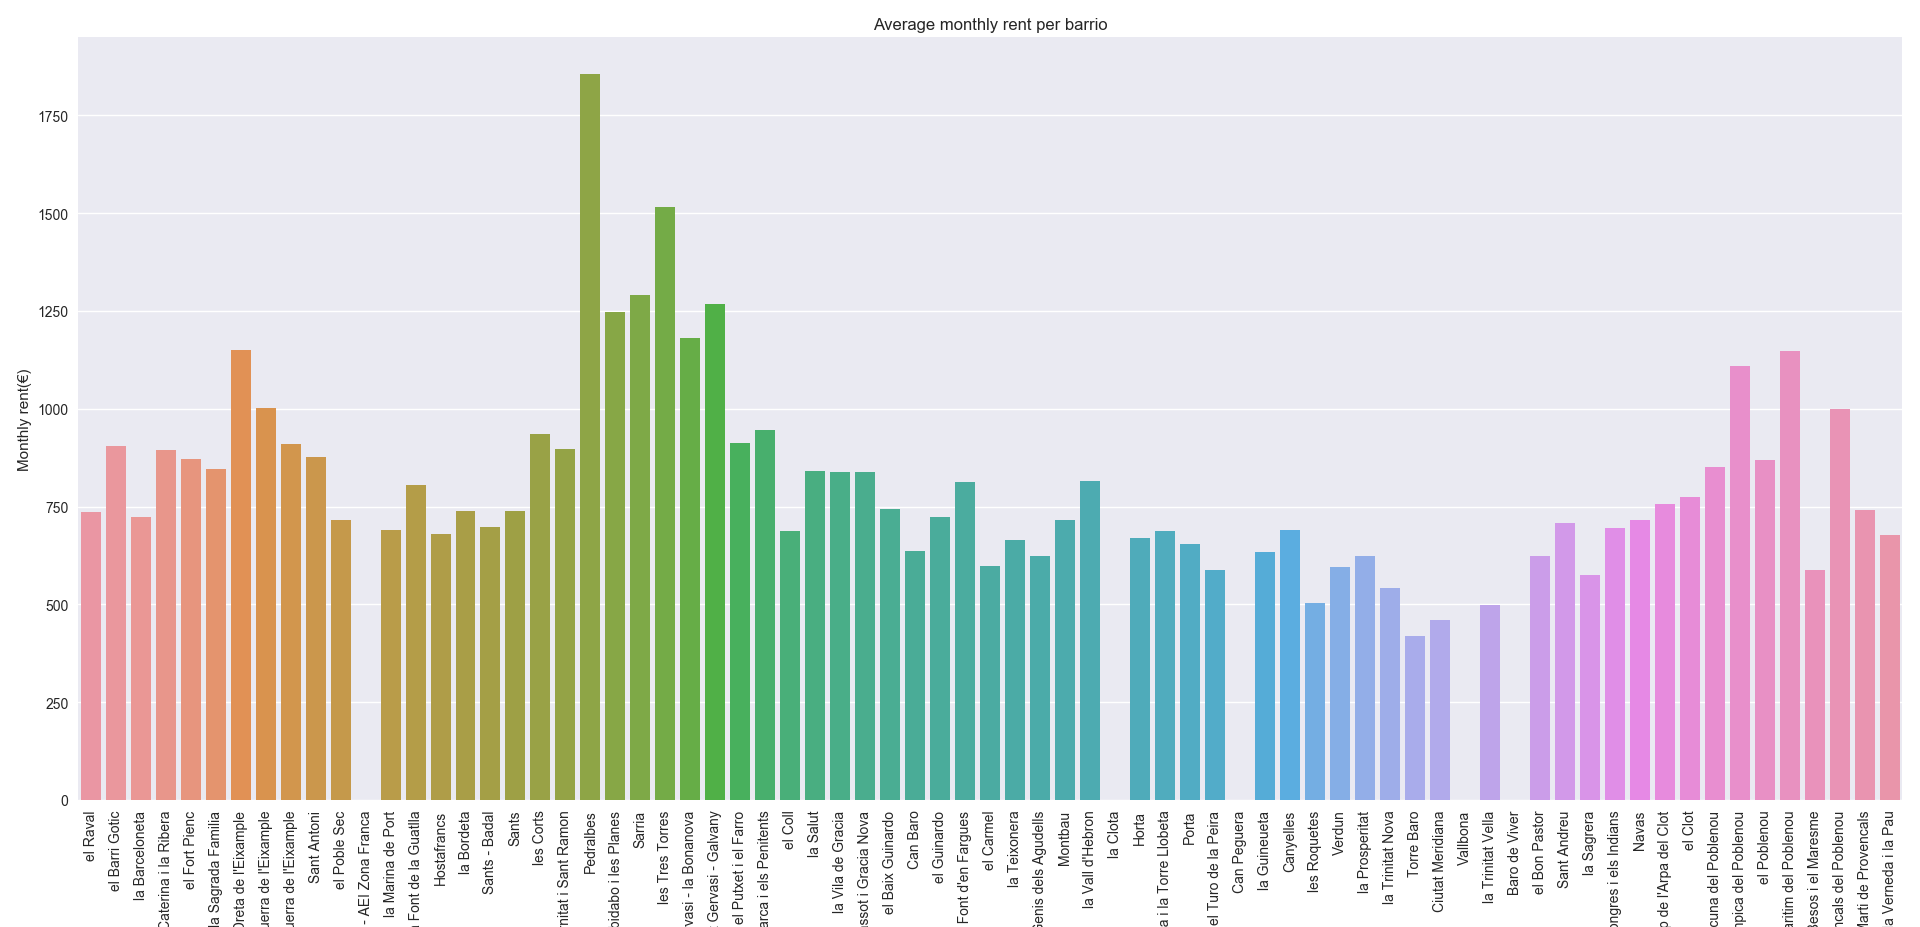
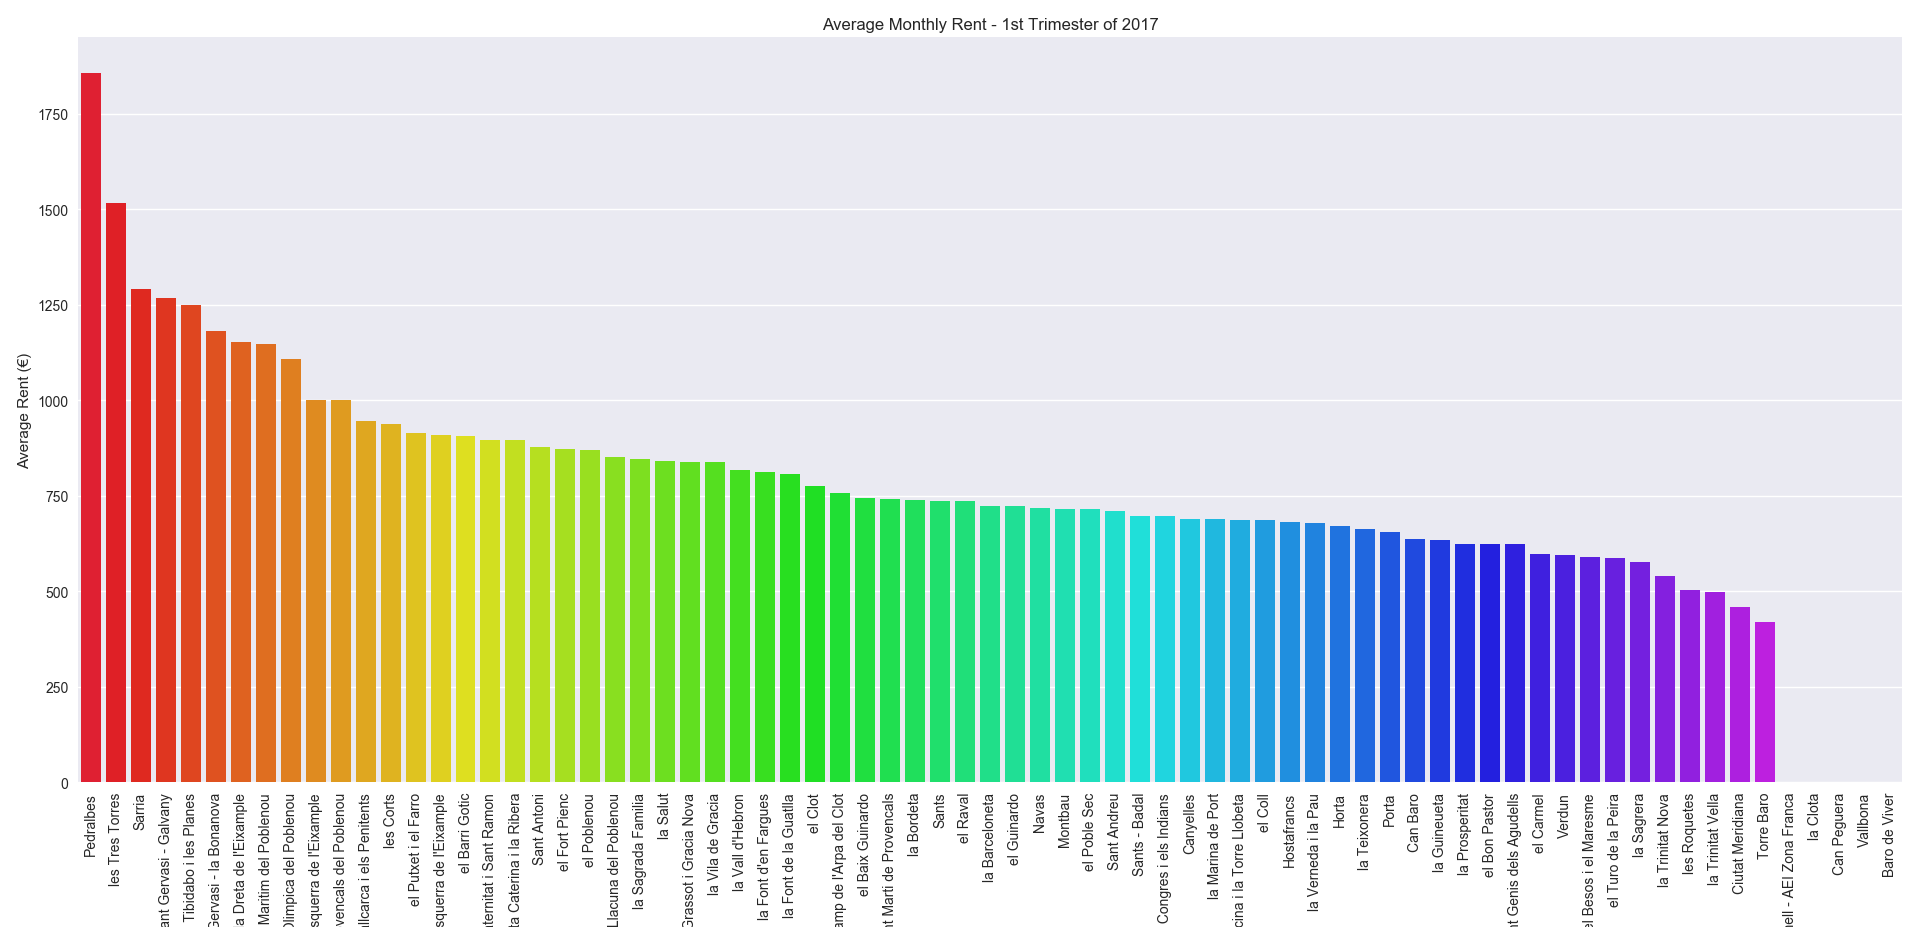
comparisson graphs

diff --git a/visualization.py b/visualization.py
@@ -23,6 +23,7 @@ columns = ['average_area', 'average_rent', 'average_rent_per_m2', 'number_contra
 legends = ['AVERAGE AREA', 'AVERAGE RENT', 'AVERAGE RENT PER M2', 'NUMBER OF NEW CONTRACTS']
 colors = ['RdPu', 'YlGn', 'OrRd', 'YlOrRd']
 
+# UNCOMMENT TO DRAW THE FOLIUM MAPS
 # for i in range(4):
 #     map = folium.Map(location=[41.41, 2.15], zoom_start=13)
 #
@@ -32,7 +33,31 @@ colors = ['RdPu', 'YlGn', 'OrRd', 'YlOrRd']
 #
 #     map.save(str(columns[i])+'.html')
 
-compare = sns.barplot(x='Barris', y='average_rent', data=data_file)
-for item in compare.get_xticklabels():
-    item.set_rotation(90)
+# UNCOMMENT TO DRAW COMPARISON BAR GRAPHS AND CHANGE THE "y='number_contracts'" AND "by='number_contracts'"
+# TO DRAW THE DIFFERENT GRAPHS
+# data_file.drop(['Unnamed: 0', 'Dte.'], inplace=True, axis=1)
+# compare = sns.barplot(x='Barris', y='number_contracts', palette='gist_rainbow',
+#                       data=data_file.sort_values(by='number_contracts', ascending=False))
+# for item in compare.get_xticklabels():
+#     item.set_rotation(90)
 
+
+
+
+
+
+
+# OTHER STUFF DONT LOOK :P
+'''
+data_file.drop(['Unnamed: 0', 'Dte.'], inplace=True, axis=1)
+sns.jointplot(x='average_rent_per_m2',y='average_rent', data=data_file)
+sns.jointplot(x='average_area',y='average_rent', data=data_file)
+
+
+sns.pairplot(data_file.dropna())
+sns.pairplot(data_file.dropna(), hue='Barris')
+
+cor = data_file.corr()
+sns.heatmap(cor, annot=True, cmap='coolwarm')
+
+'''
